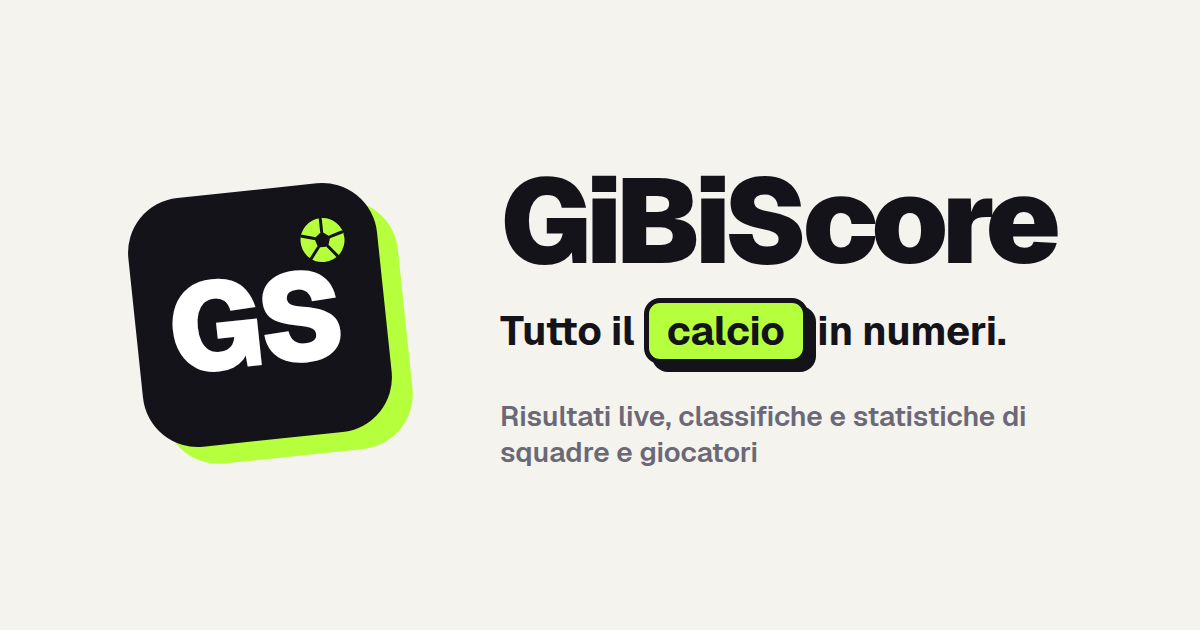
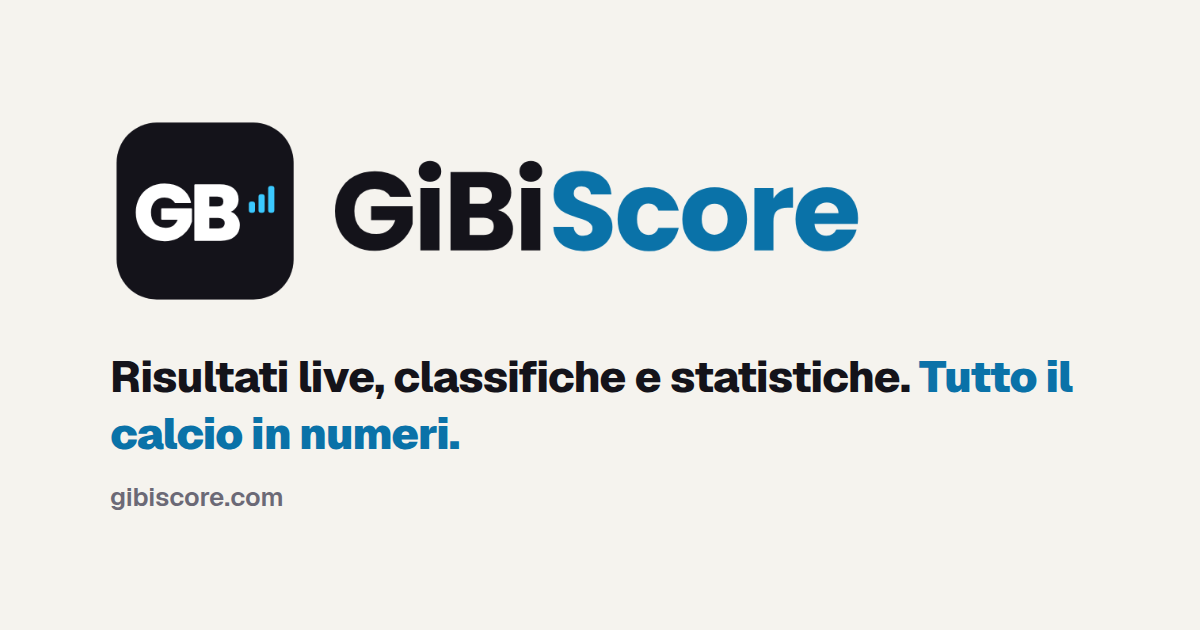
Apply the GiBi identity to GiBiScore
- Accent moves to the GiBiScore blue (#3BC9FF; --accent-text #0A72A8),
  tile and text stay #14131A; sister brand tokens for the footer.
- Icons from public/brand: SVG + PNG full-accent favicon, black tile
  apple-touch-icon, favicon.ico, theme-color #14131A, web manifest for
  installation, Open Graph image built on the lockup.
- App bar shows the GiBiScore lockup (icon on phones); the earlier
  hand-made mark and its PNGs are gone.
- GiBiSociety footer as on GiBiArena: company block with the GiBiSociety
  icon, explore, GiBi network (GiBiArena, GiBiScore) with their icons,
  legal, support, data credit.

Claude-Session: https://claude.ai/code/session_01DpAz2zZizMYtq25xtrfj8R

Changed region(s): [[0.0925, 0.181, 0.8942, 0.754], [0.0925, 0.754, 0.2467, 0.8143]]

diff --git a/components/shared/layout/footer.tsx b/components/shared/layout/footer.tsx
@@ -1,6 +1,7 @@
+import {Mail} from "lucide-react";
 import {useTranslations} from "next-intl";
 import {Link} from "@/i18n/navigation";
-import {LogoMark} from "./logo";
+import {BrandIcon} from "./logo";
 
 const EXPLORE_LINKS = [
     {key: 'scores', href: '/'},
@@ -9,6 +10,9 @@ const EXPLORE_LINKS = [
     {key: 'stats', href: '/stats'},
 ] as const;
 
+const linkClass = "text-sm text-muted-foreground hover:text-foreground hover:underline underline-offset-4 decoration-2 transition-colors";
+
+/** GiBiSociety footer, same structure as GiBiArena: company, explore, network, legal, support. */
 export default function Footer() {
     const t = useTranslations('Common.footer');
     const tNav = useTranslations('AppBar.nav');
@@ -16,43 +20,88 @@ export default function Footer() {
 
     return (
         <footer className="mt-auto w-full bg-background border-t-[2.5px] border-foreground">
-            <div className="max-w-[1600px] mx-auto px-4 py-6">
-                <div className="grid grid-cols-2 md:grid-cols-[1.6fr_1fr_1fr] gap-5 mb-5">
+            <div className="max-w-[1600px] mx-auto px-4 md:px-6 py-10 md:py-12">
+                <div className="grid grid-cols-2 md:grid-cols-[1.6fr_1fr_1fr_1fr_1fr] gap-8 md:gap-6 mb-8">
+                    {/* Company */}
                     <div className="flex flex-col items-start gap-4 col-span-2 md:col-span-1">
                         <div className="flex items-center gap-3">
-                            <LogoMark size={40} />
-                            <span className="text-xl font-black tracking-tight">GiBiScore</span>
+                            <BrandIcon site="gibisociety" size={48} alt={t('company.name')} />
+                            <div>
+                                <h3 className="text-lg font-bold text-foreground">{t('company.name')}</h3>
+                                <p className="text-sm text-muted-foreground">{t('company.tagline')}</p>
+                            </div>
                         </div>
-                        <p className="text-sm text-muted-foreground max-w-sm">{t('about')}</p>
+                        <p className="text-sm text-muted-foreground leading-relaxed max-w-sm">{t('company.description')}</p>
                     </div>
 
+                    {/* Explore: the primary sections, nothing more */}
                     <div className="flex flex-col gap-3">
-                        <h3 className="text-sm font-extrabold uppercase tracking-wide">{t('explore')}</h3>
-                        <ul className="flex flex-col gap-2">
-                            {EXPLORE_LINKS.map(({key, href}) => (
-                                <li key={key}>
-                                    <Link href={href} className="text-sm font-semibold text-foreground/70 hover:text-foreground">
-                                        {tNav(key)}
-                                    </Link>
-                                </li>
+                        <h4 className="font-semibold text-foreground">{t('explore')}</h4>
+                        <nav className="flex flex-col gap-2">
+                            {EXPLORE_LINKS.map((link) => (
+                                <Link key={link.key} href={link.href} className={linkClass}>{tNav(link.key)}</Link>
                             ))}
-                        </ul>
+                        </nav>
                     </div>
 
+                    {/* Network */}
                     <div className="flex flex-col gap-3">
-                        <h3 className="text-sm font-extrabold uppercase tracking-wide">{t('network')}</h3>
-                        <ul className="flex flex-col gap-2">
-                            <li>
-                                <a href="https://gibiarena.com" className="text-sm font-semibold text-foreground/70 hover:text-foreground">
-                                    {t('gibiarena')}
-                                </a>
-                            </li>
-                        </ul>
+                        <h4 className="font-semibold text-foreground">{t('network')}</h4>
+                        <nav className="flex flex-col gap-2.5">
+                            <a href="https://gibiarena.com" className="flex items-center gap-2 group">
+                                <BrandIcon site="gibiarena" size={24} />
+                                <span className="flex flex-col leading-tight">
+                                    <span className="text-sm font-semibold text-foreground group-hover:underline underline-offset-4 decoration-2">{t('gibiarena')}</span>
+                                    <span className="text-[11px] text-muted-foreground">{t('gibiarenaHint')}</span>
+                                </span>
+                            </a>
+                            <Link href="/" className="flex items-center gap-2 group">
+                                <BrandIcon site="gibiscore" size={24} />
+                                <span className="flex flex-col leading-tight">
+                                    <span className="text-sm font-semibold text-foreground group-hover:underline underline-offset-4 decoration-2">{t('gibiscore')}</span>
+                                    <span className="text-[11px] text-muted-foreground">{t('gibiscoreHint')}</span>
+                                </span>
+                            </Link>
+                        </nav>
+                    </div>
+
+                    {/* Legal */}
+                    <div className="flex flex-col gap-3">
+                        <h4 className="font-semibold text-foreground">{t('legal')}</h4>
+                        <nav className="flex flex-col gap-2">
+                            <a href="https://gibiarena.com/privacy" className={linkClass}>{t('privacy')}</a>
+                            <a href="https://gibiarena.com/terms" className={linkClass}>{t('terms')}</a>
+                        </nav>
+                    </div>
+
+                    {/* Support */}
+                    <div className="flex flex-col gap-3">
+                        <h4 className="font-semibold text-foreground">{t('support')}</h4>
+                        <div className="flex items-center gap-2">
+                            <Mail className="w-4 h-4 text-foreground" />
+                            <a href={`mailto:${t('supportEmail')}`} className={linkClass}>{t('supportEmail')}</a>
+                        </div>
+                        <a href="https://instagram.com/gibiarena" target="_blank" rel="noopener noreferrer" className={`flex items-center gap-2 ${linkClass}`}>
+                            <svg xmlns="http://www.w3.org/2000/svg" viewBox="0 0 24 24" fill="none" stroke="currentColor" strokeWidth="2" strokeLinecap="round" strokeLinejoin="round" className="w-4 h-4 text-foreground" aria-hidden="true">
+                                <rect width="20" height="20" x="2" y="2" rx="5" ry="5" />
+                                <path d="M16 11.37A4 4 0 1 1 12.63 8 4 4 0 0 1 16 11.37z" />
+                                <line x1="17.5" x2="17.51" y1="6.5" y2="6.5" />
+                            </svg>
+                            <span>{t('instagram')}</span>
+                        </a>
+                        <p className="text-xs text-muted-foreground/70">{t('supportMessage')}</p>
                     </div>
                 </div>
 
-                <div className="border-t-2 border-muted pt-6 text-xs text-muted-foreground font-semibold">
-                    © {year} GiBiSociety. {t('rights')}
+                <div className="h-[2px] bg-foreground/15 my-6" />
+
+                <div className="flex flex-col md:flex-row items-center justify-between gap-3 text-xs text-muted-foreground">
+                    <p>© {year} {t('copyright')}</p>
+                    <div className="flex flex-wrap items-center justify-center gap-x-4 gap-y-1">
+                        <span>{t('dataCredit')}</span>
+                        <a href="https://gibiarena.com/privacy" className="hover:text-foreground transition-colors">{t('privacy')}</a>
+                        <a href="https://gibiarena.com/terms" className="hover:text-foreground transition-colors">{t('terms')}</a>
+                    </div>
                 </div>
             </div>
         </footer>

diff --git a/components/shared/layout/logo.tsx b/components/shared/layout/logo.tsx
@@ -1,39 +1,35 @@
+/* eslint-disable @next/next/no-img-element */
 import {cn} from "@/components/shared/ui/cn";
 
-/** The GiBiScore ball: lime, ink pentagon, five seams. */
-function Ball({className}: {className?: string}) {
+/**
+ * Identity GiBi assets (public/brand): black tile, GB in Poppins Bold as
+ * curves, one glyph and one accent per site. Never rotated, stretched or
+ * shadowed; below 32 px the full-accent variant is used.
+ */
+export type GibiSite = 'gibiscore' | 'gibiarena' | 'gibisociety';
+
+/** Primary icon (black tile). `accent` switches to the full-accent tile for tiny sizes. */
+export function BrandIcon({site = 'gibiscore', size = 32, accent = false, className, alt = ''}: {site?: GibiSite; size?: number; accent?: boolean; className?: string; alt?: string}) {
+    const variant = accent || size < 32 ? 'icon-accent' : 'icon';
+    return <img src={`/brand/svg/${site}-${variant}.svg`} alt={alt} width={size} height={size} className={cn("shrink-0 select-none", className)} draggable={false} />;
+}
+
+/** Icon + wordmark, for light (`dark={false}`) or dark backgrounds. Height in px, width follows the 925:232 ratio. */
+export function BrandLockup({site = 'gibiscore', height = 30, dark = false, className, alt}: {site?: GibiSite; height?: number; dark?: boolean; className?: string; alt?: string}) {
+    const width = Math.round((height * 925) / 232);
     return (
-        <svg viewBox="0 0 100 100" className={className} aria-hidden="true">
-            <circle cx="50" cy="50" r="46" fill="rgb(var(--accent))" stroke="rgb(var(--foreground))" strokeWidth="7" />
-            <polygon points="50,31 68,44 61,65 39,65 32,44" fill="rgb(var(--foreground))" />
-            <g stroke="rgb(var(--foreground))" strokeWidth="7" strokeLinecap="round">
-                <line x1="50" y1="31" x2="50" y2="6" />
-                <line x1="68" y1="44" x2="92" y2="36" />
-                <line x1="61" y1="65" x2="77" y2="86" />
-                <line x1="39" y1="65" x2="23" y2="86" />
-                <line x1="32" y1="44" x2="8" y2="36" />
-            </g>
-        </svg>
+        <img
+            src={`/brand/svg/${site}-lockup${dark ? '-dark' : ''}.svg`}
+            alt={alt ?? (site === 'gibiscore' ? 'GiBiScore' : site === 'gibiarena' ? 'GiBiArena' : 'GiBiSociety')}
+            width={width}
+            height={height}
+            className={cn("shrink-0 select-none", className)}
+            draggable={false}
+        />
     );
 }
 
-/**
- * GiBiScore mark: tilted ink block with a lime offset block behind, "GS"
- * in heavy Geist and the ball in the corner. Same family as the GiBiArena
- * mark, its own identity. Bitmap versions live in public/brand.
- */
+/** Kept for existing imports: the GiBiScore icon. */
 export function LogoMark({size = 36, className}: {size?: number; className?: string}) {
-    return (
-        <span aria-hidden="true" className={cn("relative inline-block shrink-0", className)} style={{width: size, height: size}}>
-            <span className="absolute inset-0 rounded-[22%] bg-accent" style={{transform: `rotate(-6deg) translate(${size * 0.08}px, ${size * 0.08}px)`}} />
-            <span className="absolute inset-0 rounded-[22%] bg-foreground flex items-center justify-center" style={{transform: 'rotate(-6deg)'}}>
-                <span className="font-black text-background leading-none select-none" style={{fontSize: size * 0.5, letterSpacing: '-0.05em', marginLeft: -size * 0.05, marginTop: size * 0.04}}>
-                    GS
-                </span>
-                <span className="absolute" style={{right: size * 0.1, top: size * 0.1, width: size * 0.24, height: size * 0.24}}>
-                    <Ball />
-                </span>
-            </span>
-        </span>
-    );
+    return <BrandIcon size={size} className={className} />;
 }

diff --git a/components/shell/app-bar.tsx b/components/shell/app-bar.tsx
@@ -4,7 +4,7 @@ import {Search} from "lucide-react";
 import {useTranslations} from "next-intl";
 import {Link, usePathname} from "@/i18n/navigation";
 import {cn} from "@/components/shared/ui/cn";
-import {LogoMark} from "@/components/shared/layout/logo";
+import {BrandIcon, BrandLockup} from "@/components/shared/layout/logo";
 
 // URLs are English like on GiBiArena; labels come from AppBar.json.
 const NAV_ITEMS = [
@@ -23,9 +23,9 @@ export default function AppBar() {
         <header className="sticky top-0 z-50 w-full bg-background text-foreground border-b-[2.5px] border-foreground">
             <div className="w-full max-w-[1600px] mx-auto px-2 md:px-4">
                 <div className="flex h-12 items-center gap-2 md:gap-4">
-                    <Link href="/" className="flex items-center gap-2 shrink-0">
-                        <LogoMark size={30} />
-                        <span className="text-base font-black tracking-tight">GiBiScore</span>
+                    <Link href="/" className="flex items-center shrink-0" aria-label="GiBiScore">
+                        <BrandLockup height={30} className="hidden sm:block" />
+                        <BrandIcon size={32} className="sm:hidden" alt="GiBiScore" />
                     </Link>
 
                     <nav aria-label={t('sectionsLabel')} className="flex items-center gap-0.5 ml-1 md:ml-3 overflow-x-auto">

diff --git a/app/globals.css b/app/globals.css
@@ -19,8 +19,13 @@ body {
   --card-foreground: 20 19 26;
   --muted: 237 234 225;
   --muted-foreground: 107 105 118;
-  --accent: 182 255 60;
+  /* GiBiScore accent (identity GiBi): #3BC9FF, text on light #0A72A8 */
+  --accent: 59 201 255;
   --accent-foreground: 20 19 26;
+  --accent-text: 10 114 168;
+  /* Sister brands, for the GiBiSociety footer */
+  --brand-arena: 182 255 60;
+  --brand-society: 255 122 69;
   --border: 20 19 26;
   --ring: 20 19 26;
   --radius: 0.75rem;
@@ -36,6 +41,9 @@ body {
   --color-muted-foreground: rgb(var(--muted-foreground));
   --color-accent: rgb(var(--accent));
   --color-accent-foreground: rgb(var(--accent-foreground));
+  --color-accent-text: rgb(var(--accent-text));
+  --color-brand-arena: rgb(var(--brand-arena));
+  --color-brand-society: rgb(var(--brand-society));
   --color-border: rgb(var(--border));
   --color-ring: rgb(var(--ring));
   --radius-lg: var(--radius-lg);

diff --git a/app/manifest.ts b/app/manifest.ts
@@ -1,0 +1,20 @@
+import type {MetadataRoute} from 'next';
+
+// Installable on phones: black tile icons from the GiBi identity.
+export default function manifest(): MetadataRoute.Manifest {
+    return {
+        name: 'GiBiScore',
+        short_name: 'GiBiScore',
+        description: 'Risultati live, classifiche e statistiche di calcio.',
+        start_url: '/',
+        display: 'standalone',
+        background_color: '#f5f3ee',
+        theme_color: '#14131A',
+        lang: 'it',
+        icons: [
+            {src: '/brand/png/gibiscore-icon-192.png', sizes: '192x192', type: 'image/png'},
+            {src: '/brand/png/gibiscore-icon-512.png', sizes: '512x512', type: 'image/png'},
+            {src: '/brand/png/gibiscore-favicon-accent-512.png', sizes: '512x512', type: 'image/png', purpose: 'maskable'},
+        ],
+    };
+}

diff --git a/app/[locale]/layout.tsx b/app/[locale]/layout.tsx
@@ -38,10 +38,20 @@ export const metadata: Metadata = {
         siteName: "GiBiScore",
         locale: "it_IT",
     },
+    // Identity GiBi: favicon in the full-accent variant, black tile for iOS.
+    icons: {
+        icon: [
+            {url: "/brand/svg/gibiscore-icon-accent.svg", type: "image/svg+xml"},
+            {url: "/brand/png/gibiscore-favicon-accent-32.png", sizes: "32x32", type: "image/png"},
+            {url: "/brand/png/gibiscore-favicon-accent-192.png", sizes: "192x192", type: "image/png"},
+        ],
+        apple: [{url: "/brand/png/gibiscore-icon-180.png", sizes: "180x180"}],
+    },
+    manifest: "/manifest.webmanifest",
 };
 
 export const viewport: Viewport = {
-    themeColor: "#f5f3ee",
+    themeColor: "#14131A",
     width: "device-width",
     initialScale: 1,
 };

diff --git a/README.md b/README.md
@@ -114,6 +114,14 @@ Diagnostica del piano e della copertura per lega in evidenza:
 Ogni esecuzione scrive una riga in `football.sync_runs` con contatori,
 richieste usate e avvisi: è il primo posto dove guardare se qualcosa manca.
 
+## Identità
+
+I file del marchio (icone, favicon, lockup di GiBiScore, GiBiArena e
+GiBiSociety) e le regole d'uso stanno in `public/brand/` (`README.txt`).
+Accento di GiBiScore `#3BC9FF` (`--accent`), testo colorato su chiaro
+`#0A72A8` (`--accent-text`), tile e testo `#14131A`. Il favicon usa la
+variante ad accento pieno, iOS la tile nera, `theme-color` `#14131A`.
+
 ## Pagine
 
 Struttura alla Diretta/Sofascore: barra laterale con le competizioni
